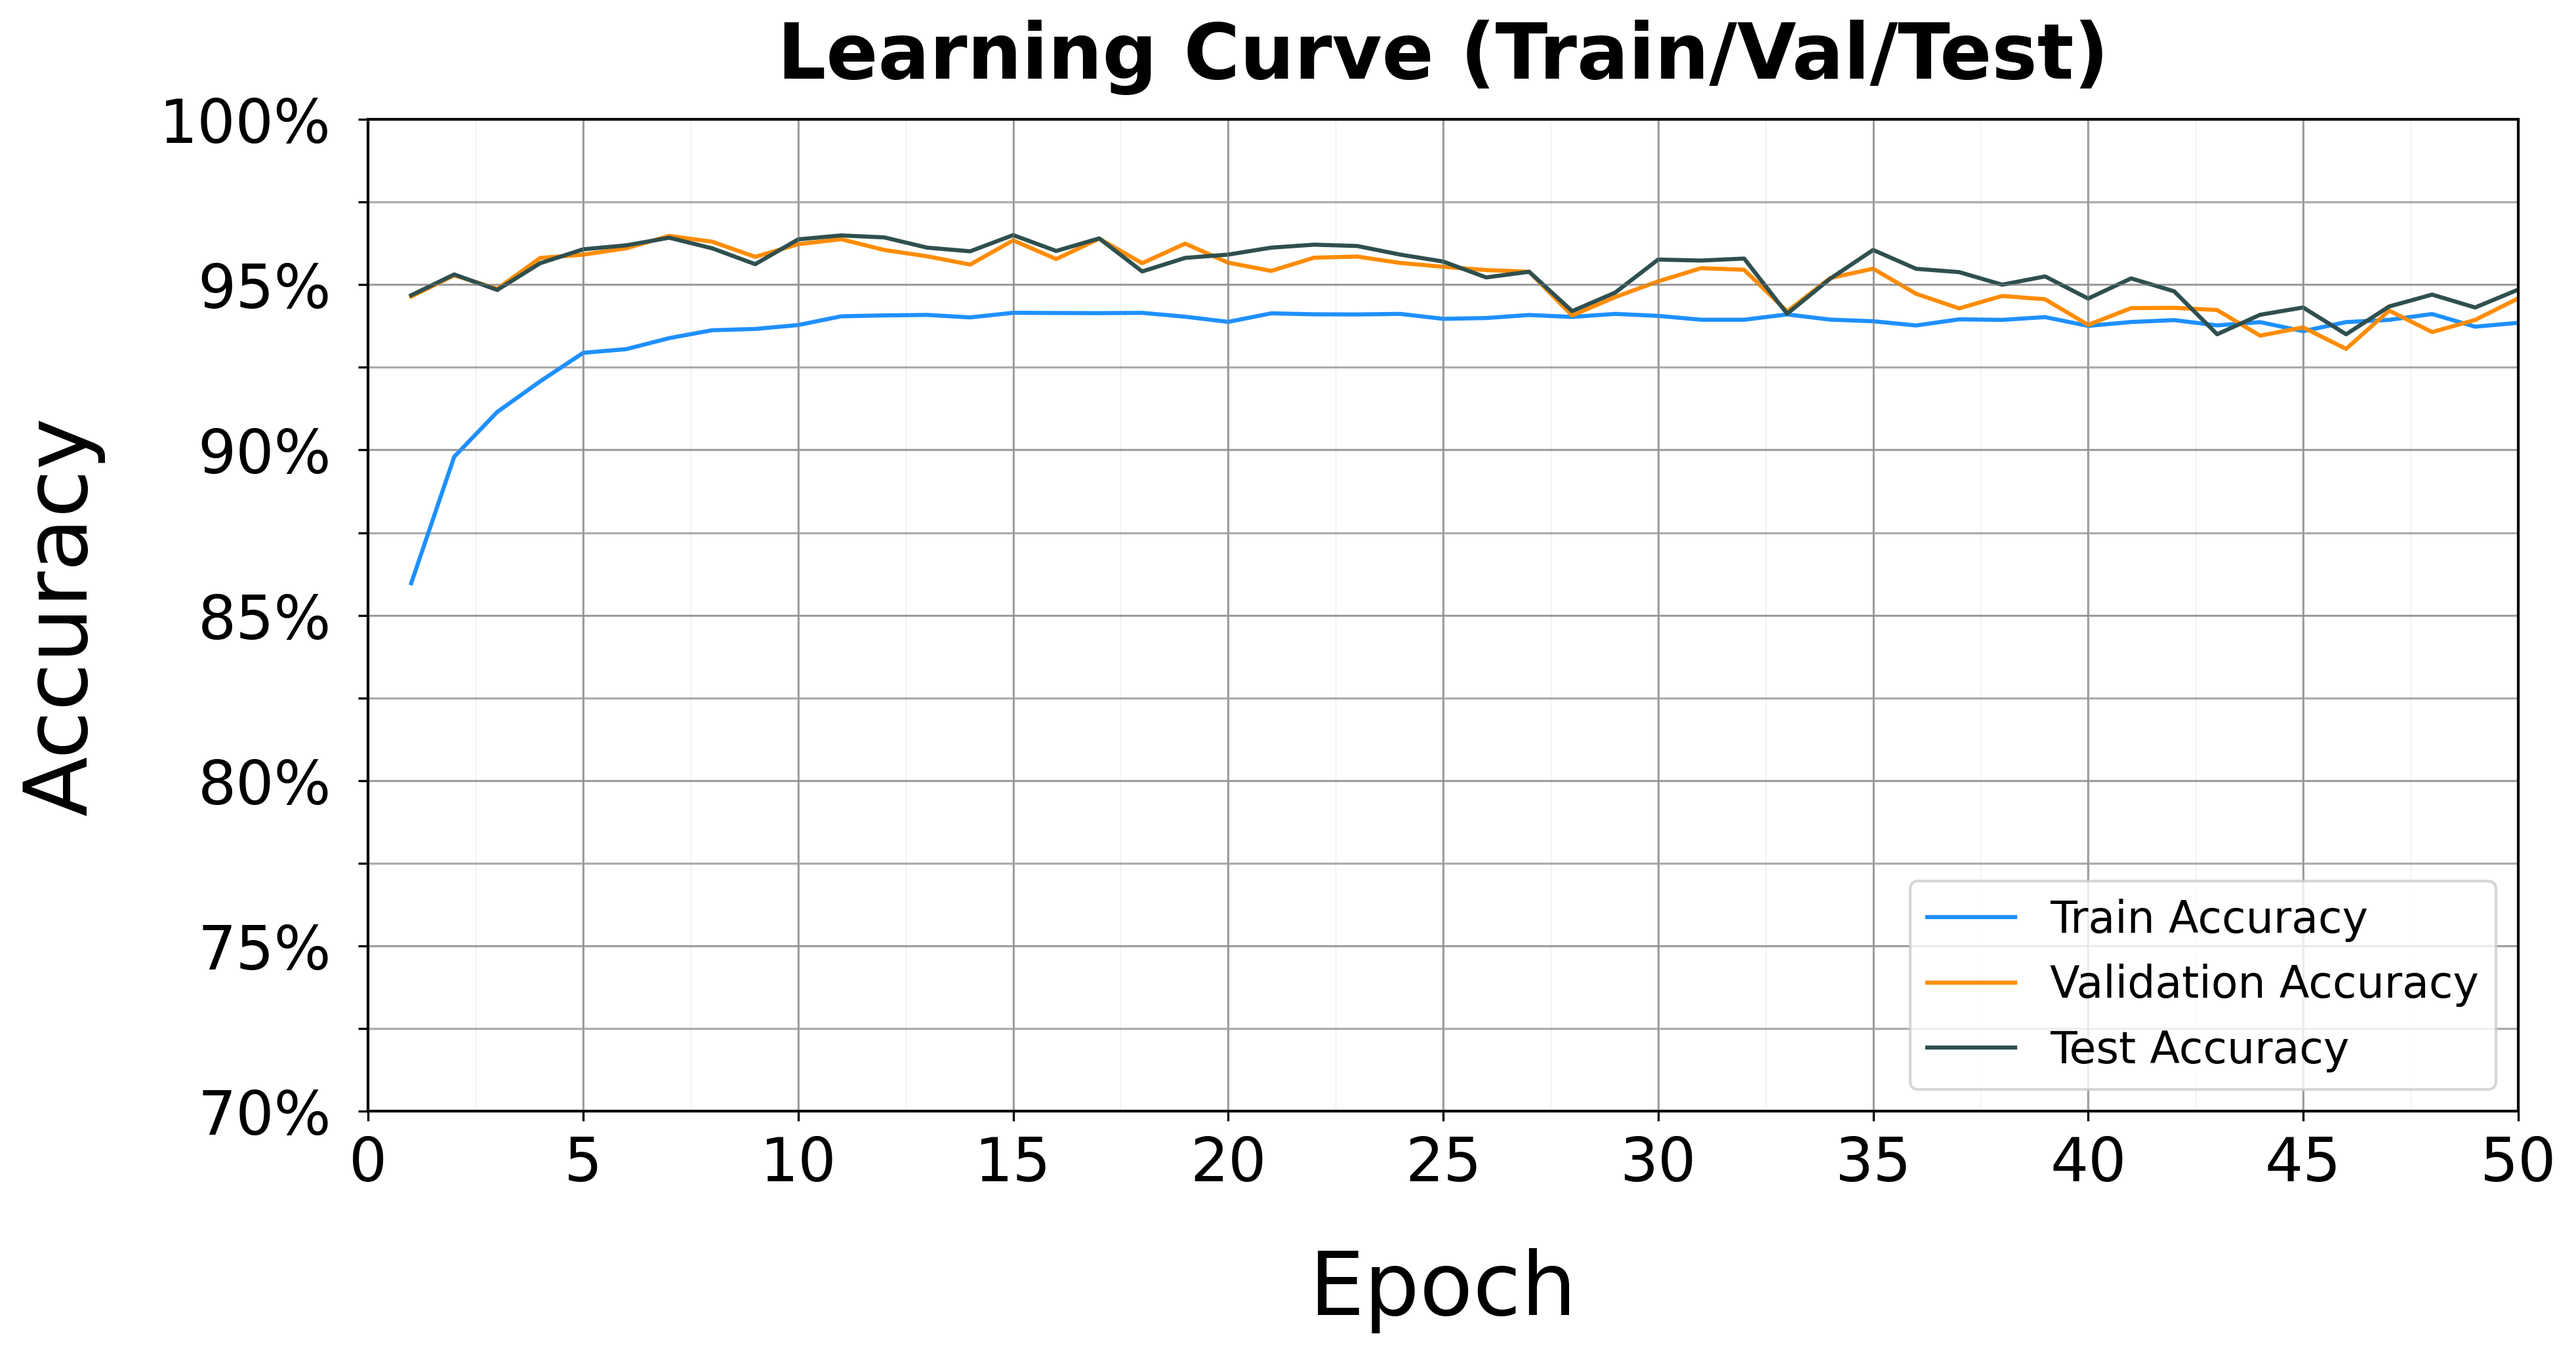
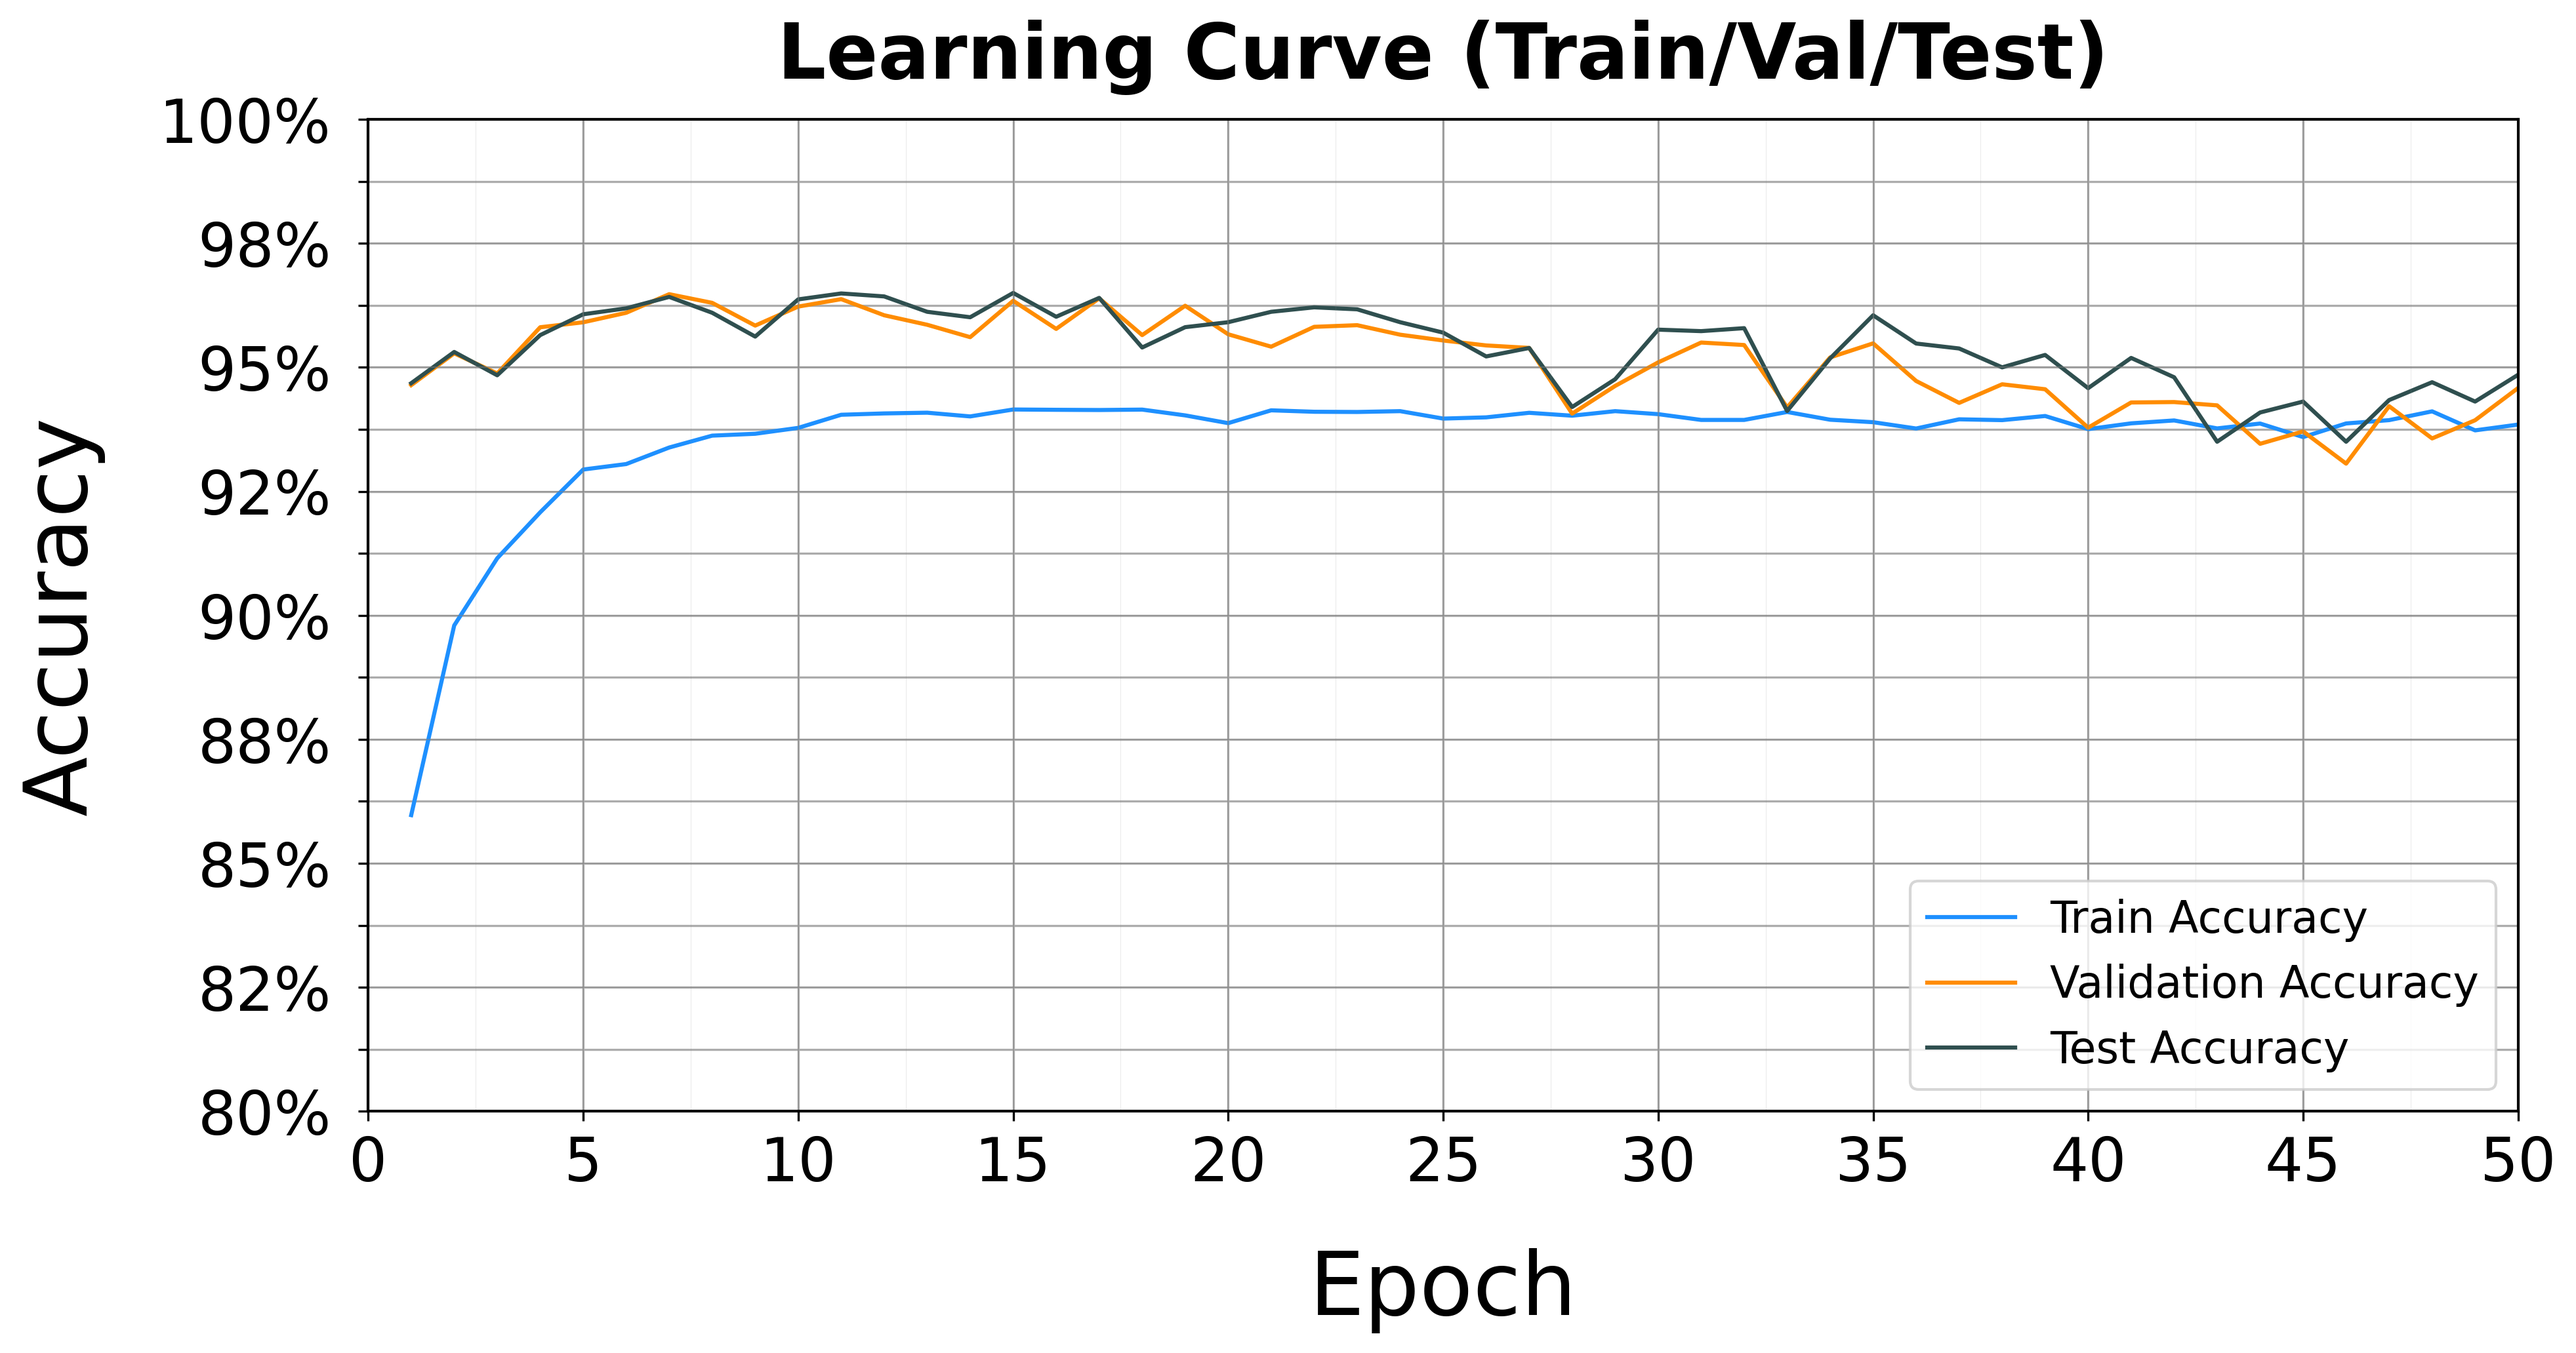
Changes

diff --git a/plots/Plots_main.py b/plots/Plots_main.py
@@ -153,7 +153,7 @@ ax.set_ylabel('Accuracy')
 ax.set_title('Learning Curve (Train/Val/Test)', fontweight='bold')
 
 ax.set_xlim(0, 50)
-ax.set_ylim(0.7, 1.0)
+ax.set_ylim(0.8, 1.0)
 
 ax.yaxis.set_major_formatter(mtick.PercentFormatter(xmax=1.0, decimals=0))
 ax.set_xticks(np.arange(0, 51, 5))
